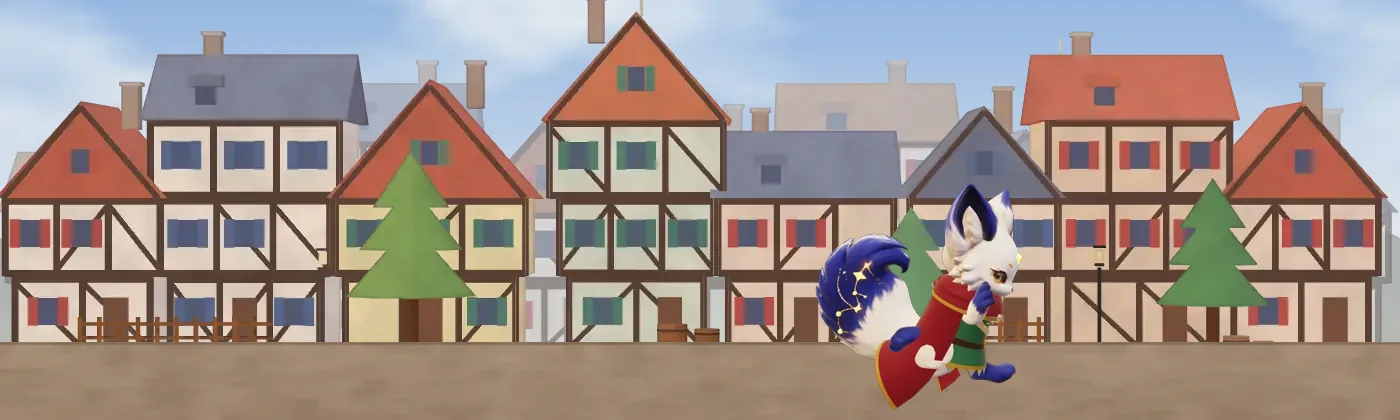
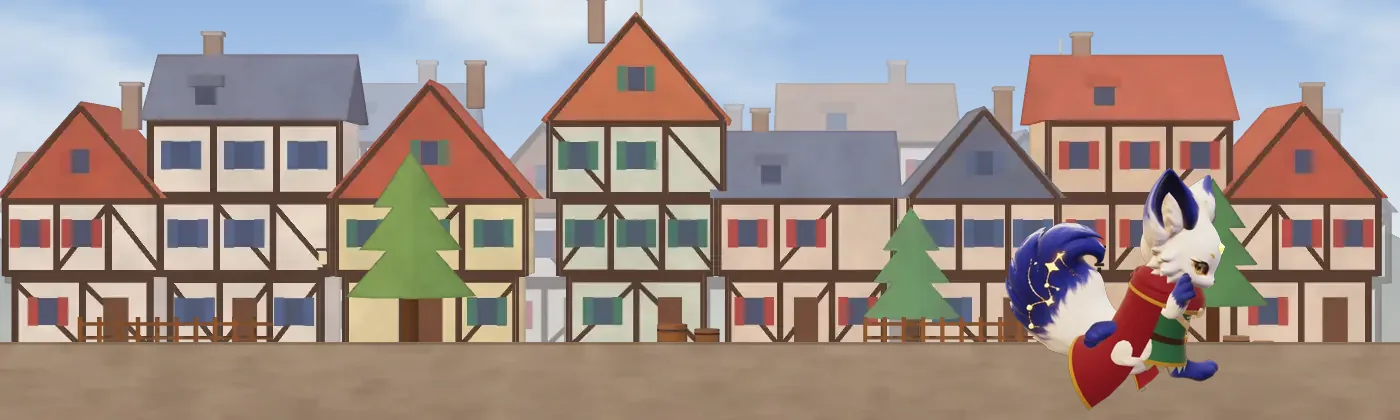
feat(neumorphism): new palette, tinted method/NIR cards, calmer Last.fm cover
- Distinct palette: saturated pairs for controls, soft pairs for big surfaces,
  indigo-violet primary with white text (all >= 5:1).
- Method steps and the four NIR questions get their own tinted backgrounds.
- Documentation flow resized to always fit its stage (checked 360-1440px).
- Curiosities scene: Sophia further along so she shows whole.
- Last.fm cover: small, on the right, no motion.
- PI presentation date: 30 de novembro -> 16 de dezembro.

Claude-Session: https://claude.ai/code/session_01LJad4pnw6Rb6fEi9bm1LL7

Changed region(s): [[0.5836, 0.4024, 0.8907, 0.9905]]

diff --git a/src/styles/neumorphic.css b/src/styles/neumorphic.css
@@ -252,7 +252,7 @@ html[data-legacy-mode='true'] body .closing :is(h2, p) span { color: inherit !im
 html[data-legacy-mode='true'] body .closing .eyebrow { color: #ffd08a !important; }
 /* The curiosities window wears the running-through-the-village scene, still, behind the copy card. */
 html[data-legacy-mode='true'] body .curiosities-teaser {
-  background: url('/assets/neumorphic-corrida-scene.webp') 66% bottom / cover no-repeat, #aac4e4 !important;
+  background: url('/assets/neumorphic-corrida-scene.webp') 80% bottom / cover no-repeat, #aac4e4 !important;
   min-height: clamp(17rem, 30vw, 22rem) !important;
   display: flex;
   align-items: center;
@@ -342,7 +342,7 @@ html[data-legacy-mode='true'] body :is(.button.primary, .editorial-primary, .imm
   background: linear-gradient(180deg, #a85f2d, var(--neu-accent)) !important;
   color: #ffffff !important;
   border: 0 !important;
-  box-shadow: inset 0 1px 0 rgba(255, 255, 255, .28), 0 1px 2px rgba(134, 71, 29, .3), 0 10px 20px -6px rgba(134, 71, 29, .5) !important;
+  box-shadow: inset 0 1px 0 rgba(255, 255, 255, .28), 0 1px 2px rgba(59, 77, 232, .3), 0 10px 20px -6px rgba(59, 77, 232, .55) !important;
   min-height: var(--target-min);
   border-radius: var(--neu-r-ctl) !important;
   font-weight: 600;
@@ -357,29 +357,39 @@ html[data-legacy-mode='true'] body :is(.button.primary, .editorial-primary, .imm
 /* 7b. Colour on the controls: soft pastel gradients with ink text (>= 12:1), same four hues
    as the rest of the page. Primary actions keep the saturated copper with white text. */
 html[data-legacy-mode='true'] {
-  --grad-warm: linear-gradient(135deg, #ffe0a8 0%, #ffc2d6 100%);
-  --grad-cool: linear-gradient(135deg, #c4e9ff 0%, #d7ccff 100%);
-  --grad-fresh: linear-gradient(135deg, #c2f2d4 0%, #c4e9ff 100%);
-  --grad-violet: linear-gradient(135deg, #e3d6ff 0%, #ffd0e6 100%);
-  --grad-primary: linear-gradient(135deg, #a85f2d 0%, #9c3f63 100%);
+  /* Saturated pairs for small things (buttons, chips): ink text, >= 5.2:1. */
+  --grad-warm: linear-gradient(135deg, #ffb347 0%, #ff7a59 100%);
+  --grad-cool: linear-gradient(135deg, #3fd0d4 0%, #4f8cff 100%);
+  --grad-fresh: linear-gradient(135deg, #b4e36b 0%, #3fd29b 100%);
+  --grad-violet: linear-gradient(135deg, #c77dff 0%, #ff6bb5 100%);
+  --grad-lemon: linear-gradient(135deg, #ffe45e 0%, #ffb02e 100%);
+  /* Soft pairs for big surfaces (cards, notes, boxes): ink text, >= 11:1. */
+  --soft-warm: linear-gradient(145deg, #ffe2b8 0%, #ffc9b8 100%);
+  --soft-cool: linear-gradient(145deg, #c6f1f2 0%, #c6dcff 100%);
+  --soft-fresh: linear-gradient(145deg, #dcf5b6 0%, #b9f0d8 100%);
+  --soft-violet: linear-gradient(145deg, #ecd5ff 0%, #ffd1e8 100%);
+  --soft-lemon: linear-gradient(145deg, #fff2a8 0%, #ffdca0 100%);
+  /* Primary actions: deep indigo to violet, white text (>= 5:1). */
+  --grad-primary: linear-gradient(135deg, #3b4de8 0%, #8a3ffc 100%);
 }
-html[data-legacy-mode='true'] body :is(.github-cta, .cv-download-button, .lab-project-repo, .curiosities-teaser__link) { background: var(--grad-warm) !important; }
+html[data-legacy-mode='true'] body :is(.github-cta, .cv-download-button) { background: var(--grad-lemon) !important; }
+html[data-legacy-mode='true'] body :is(.lab-project-repo, .curiosities-teaser__link) { background: var(--grad-warm) !important; }
 html[data-legacy-mode='true'] body :is(.work-index a, .apple-music-link, .method-stage-link) { background: var(--grad-cool) !important; }
-html[data-legacy-mode='true'] body .social-links a { background: var(--grad-fresh) !important; }
+html[data-legacy-mode='true'] body .social-links a { background: var(--grad-violet) !important; }
 html[data-legacy-mode='true'] body .closing-actions .closing-whatsapp-button { background: var(--grad-fresh) !important; }
 html[data-legacy-mode='true'] body .closing-actions .closing-linkedin-button { background: var(--grad-cool) !important; }
 html[data-legacy-mode='true'] body :is(.github-cta, .cv-download-button, .lab-project-repo, .curiosities-teaser__link, .work-index a, .apple-music-link, .method-stage-link, .social-links a, .closing-actions a):is(:hover, :focus-visible) { filter: saturate(1.2) brightness(1.03); }
 html[data-legacy-mode='true'] body :is(.button.primary, .editorial-primary, .immersive-banner__cta, .nav-cta, .closing-email-button, .hero-actions .button:first-child) { background: var(--grad-primary) !important; }
-html[data-legacy-mode='true'] body :is(.button.primary, .editorial-primary, .immersive-banner__cta, .nav-cta, .closing-email-button, .hero-actions .button:first-child):is(:active) { background: #8d3a5a !important; }
+html[data-legacy-mode='true'] body :is(.button.primary, .editorial-primary, .immersive-banner__cta, .nav-cta, .closing-email-button, .hero-actions .button:first-child):is(:active) { background: #4a35d0 !important; }
 
 /* On the dark closing tile the buttons cast a dark shadow instead of a white highlight. */
 html[data-legacy-mode='true'] body .closing .closing-actions a { border: 0 !important; box-shadow: inset 0 1px 0 rgba(255, 255, 255, .5), 0 10px 20px -8px rgba(0, 0, 0, .75) !important; }
 
 /* Text boxes: notes and callouts take a tinted gradient instead of a gray well. */
-html[data-legacy-mode='true'] body :is(.documentation-note, .cellulose-flow-note) { background: var(--grad-warm) !important; box-shadow: var(--neu-raise-s) !important; }
-html[data-legacy-mode='true'] body .method-disclosure { background: var(--grad-cool) !important; box-shadow: var(--neu-raise-s) !important; }
-html[data-legacy-mode='true'] body .hero-question { background: linear-gradient(135deg, rgba(255, 224, 168, .62), rgba(255, 194, 214, .5)) !important; }
-html[data-legacy-mode='true'] body .hero-note { background: linear-gradient(160deg, #fff6e4, #ffffff 70%) !important; }
+html[data-legacy-mode='true'] body :is(.documentation-note, .cellulose-flow-note) { background: var(--soft-lemon) !important; box-shadow: var(--neu-raise-s) !important; }
+html[data-legacy-mode='true'] body .method-disclosure { background: var(--soft-cool) !important; box-shadow: var(--neu-raise-s) !important; }
+html[data-legacy-mode='true'] body .hero-question { background: linear-gradient(135deg, rgba(255, 226, 184, .75), rgba(255, 201, 184, .6)) !important; }
+html[data-legacy-mode='true'] body .hero-note { background: linear-gradient(160deg, #fff2a8 0%, #ffffff 72%) !important; }
 html[data-legacy-mode='true'] body .lab-project-status { background: var(--grad-fresh) !important; box-shadow: var(--neu-raise-s) !important; color: var(--neu-ink) !important; }
 html[data-legacy-mode='true'] body .lab-project-tags span { background: color-mix(in srgb, var(--tint, var(--tint-amber)) 30%, #fff) !important; box-shadow: none !important; color: var(--neu-ink) !important; }
 
@@ -477,17 +487,68 @@ html[data-legacy-mode='true'] .curiosities-teaser { width: auto !important; max-
 html[data-legacy-mode='true'] body .social-links a { padding: .5rem .7rem !important; width: auto !important; min-width: var(--target-min); justify-content: center; }
 html[data-legacy-mode='true'] body :is(.lab-project-repo, .apple-music-link, .github-cta, .closing-actions a, .curiosities-teaser__link) { padding: .55rem 1rem; display: inline-flex; align-items: center; gap: .4rem; }
 
-/* Mind map becomes a calm stack of sunken text blocks. */
-html[data-legacy-mode='true'] .pi-map { display: grid; gap: .75rem; background: none !important; }
+/* Mind map: the four questions become a 2 x 2 board of tinted, raised cards. */
+html[data-legacy-mode='true'] .pi-map { display: grid; grid-column: 1 / -1; grid-template-columns: repeat(2, minmax(0, 1fr)); gap: 1rem; background: none !important; margin-top: .5rem; }
 html[data-legacy-mode='true'] .pi-map .mm-block {
   position: static !important;
   transform: none !important;
   width: auto !important;
-  background: var(--neu-panel) !important;
-  box-shadow: var(--neu-inset-s) !important;
-  border-radius: var(--neu-r-ctl) !important;
-  padding: .8rem 1rem;
+  min-width: 0;
+  background: var(--soft-cool) !important;
+  box-shadow: var(--neu-raise-s) !important;
+  border-radius: var(--neu-r-card) !important;
+  padding: 1.1rem 1.25rem 1.2rem;
 }
+html[data-legacy-mode='true'] .pi-map .mm-a { background: var(--soft-cool) !important; }
+html[data-legacy-mode='true'] .pi-map .mm-b { background: var(--soft-fresh) !important; }
+html[data-legacy-mode='true'] .pi-map .mm-c { background: var(--soft-violet) !important; }
+html[data-legacy-mode='true'] .pi-map .mm-d { background: var(--soft-warm) !important; }
+html[data-legacy-mode='true']:root body .pi-map .mm-title { margin: 0 0 .45rem; font-family: var(--font-display) !important; font-size: 1.25rem !important; font-weight: 600 !important; line-height: 1.2; }
+html[data-legacy-mode='true'] .pi-map .mm-block p { margin: 0; font-size: .94rem; line-height: 1.55; }
+html[data-legacy-mode='true'] .pi-map .mm-center { display: none !important; }
+html[data-legacy-mode='true']:root body .pi-map .mm-title span { font-family: inherit !important; font-weight: inherit !important; font-size: inherit !important; }
+html[data-legacy-mode='true'] .pi-map .mm-a { grid-area: 1 / 1; }
+html[data-legacy-mode='true'] .pi-map .mm-b { grid-area: 1 / 2; }
+html[data-legacy-mode='true'] .pi-map .mm-c { grid-area: 2 / 1; }
+html[data-legacy-mode='true'] .pi-map .mm-d { grid-area: 2 / 2; }
+@media (max-width: 720px) {
+  html[data-legacy-mode='true'] .pi-map { grid-template-columns: 1fr; }
+  html[data-legacy-mode='true'] .pi-map :is(.mm-a, .mm-b, .mm-c, .mm-d) { grid-area: auto; }
+}
+
+/* Method: each of the four steps sits on its own tinted card. */
+html[data-legacy-mode='true'] body .method-steps { gap: 1rem; }
+html[data-legacy-mode='true'] body .method-steps > li {
+  background: var(--soft-warm) !important;
+  box-shadow: var(--neu-raise-s) !important;
+  border-radius: var(--neu-r-card) !important;
+  padding: 1.2rem 1.3rem 1.35rem !important;
+  border: 0 !important;
+}
+html[data-legacy-mode='true'] body .method-steps > li:nth-child(2) { background: var(--soft-cool) !important; }
+html[data-legacy-mode='true'] body .method-steps > li:nth-child(3) { background: var(--soft-fresh) !important; }
+html[data-legacy-mode='true'] body .method-steps > li:nth-child(4) { background: var(--soft-violet) !important; }
+
+/* Documentation: the flow always fits its box, from desktop to phone. */
+html[data-legacy-mode='true'] body .lab-project-system-documentation { overflow: hidden; }
+html[data-legacy-mode='true'] body .documentation-pipeline {
+  width: 100% !important;
+  max-width: 100%;
+  box-sizing: border-box;
+  grid-template-columns: minmax(0, 1fr) auto minmax(0, 1fr) auto minmax(0, 1fr) auto minmax(0, 1fr) !important;
+  gap: .25rem;
+}
+html[data-legacy-mode='true'] body .documentation-step { min-height: 0 !important; min-width: 0; padding: .5rem .15rem; overflow-wrap: normal; word-break: normal; }
+html[data-legacy-mode='true'] body .documentation-step strong { font-size: clamp(.66rem, .9vw, .8rem); letter-spacing: 0; }
+html[data-legacy-mode='true'] body .documentation-step small { font-size: .62rem; }
+html[data-legacy-mode='true'] body .documentation-arrow { font-size: .8rem; }
+@media (max-width: 420px) {
+  html[data-legacy-mode='true'] body .documentation-pipeline { gap: .1rem; }
+  html[data-legacy-mode='true'] body .documentation-step strong { font-size: .6rem; }
+  html[data-legacy-mode='true'] body .documentation-step small { font-size: .56rem; }
+  html[data-legacy-mode='true'] body .documentation-arrow { font-size: .65rem; }
+}
+html[data-legacy-mode='true'] body .documentation-note { width: 100%; max-width: 100%; box-sizing: border-box; text-align: center; font-size: clamp(.62rem, .85vw, .72rem); letter-spacing: .02em; padding: .6rem .6rem; }
 
 /* Background / Percurso: a quiet timeline. */
 html[data-legacy-mode='true'] .background-entry {
@@ -508,8 +569,16 @@ html[data-legacy-mode='true'] .music-listening-panel {
 html[data-legacy-mode='true'] .music-listening-panel::before { content: none !important; }
 html[data-legacy-mode='true'] .cover-backdrop, html[data-legacy-mode='true'] .cover-dust, html[data-legacy-mode='true'] .cover-beam,
 html[data-legacy-mode='true'] .cover-notes, html[data-legacy-mode='true'] .cover-fx, html[data-legacy-mode='true'] .cover-wave { display: none !important; }
-html[data-legacy-mode='true'] .recent-artwork-shell { display: block !important; }
-html[data-legacy-mode='true'] .cover-frame { border-radius: var(--neu-r-card) !important; box-shadow: var(--elev-float) !important; overflow: hidden; -webkit-mask-image: none !important; mask-image: none !important; }
+/* Last.fm cover: small, on the right, perfectly still. */
+html[data-legacy-mode='true'] body .recent-track-card.cover-hero { grid-template-columns: minmax(0, 1fr) auto !important; min-height: 0 !important; align-items: center; gap: clamp(1rem, 3vw, 2rem); padding: clamp(1rem, 2.5vw, 1.6rem) !important; }
+html[data-legacy-mode='true'] body .recent-track-card .recent-track-copy { order: 1; background: none !important; box-shadow: none !important; padding: 0 !important; }
+html[data-legacy-mode='true'] body .recent-track-card .recent-artwork-shell { display: block !important; order: 2; width: clamp(5.5rem, 11vw, 8rem) !important; max-width: none !important; aspect-ratio: 1; margin: 0 !important; justify-self: end; background: none !important; border: 0 !important; box-shadow: none !important; transform: none !important; }
+html[data-legacy-mode='true'] body .recent-track-card .cover-frame { width: 100%; height: 100%; border-radius: var(--neu-r-ctl) !important; box-shadow: var(--neu-raise-s) !important; overflow: hidden; -webkit-mask-image: none !important; mask-image: none !important; transform: none !important; }
+html[data-legacy-mode='true'] body .recent-track-card .recent-artwork { width: 100%; height: 100%; object-fit: cover; transform: none !important; }
+html[data-legacy-mode='true'] body .recent-track-card :is(.cover-frame, .recent-artwork-shell, .recent-artwork, .recent-artwork-fallback) { transition: none !important; animation: none !important; }
+html[data-legacy-mode='true'] body .recent-track-card [hidden] { display: none !important; }
+html[data-legacy-mode='true'] body .recent-track-card .recent-artwork-fallback { transform: none !important; font-size: 2.4rem; display: grid; place-items: center; width: 100%; height: 100%; background: var(--soft-violet) !important; }
+@media (max-width: 720px) { html[data-legacy-mode='true'] body .recent-track-card.cover-hero { grid-template-columns: minmax(0, 1fr) auto !important; } }
 html[data-legacy-mode='true'] .music-listening-panel :is(.music-kicker, .recent-artist, .recent-album, .music-track-age) { color: var(--neu-ink-soft) !important; }
 html[data-legacy-mode='true'] .music-listening-panel h3 { font-size: clamp(1.6rem, 3.2vw, 2.6rem) !important; }
 html[data-legacy-mode='true'] .music-kicker-dot { background: var(--neu-accent) !important; border-radius: 50%; }
@@ -710,7 +779,7 @@ html[data-legacy-mode='true'] .sophia-404__actions a { color: var(--mode-on-dark
     padding-bottom: 12rem !important;
   }
   html[data-legacy-mode='true'] body .curiosities-teaser {
-    background: url('/assets/neumorphic-corrida-scene.webp') 66% bottom / auto 11rem no-repeat, #aac4e4 !important;
+    background: url('/assets/neumorphic-corrida-scene.webp') 80% bottom / auto 11rem no-repeat, #aac4e4 !important;
     padding-bottom: 10.5rem !important;
     align-items: flex-start;
   }
